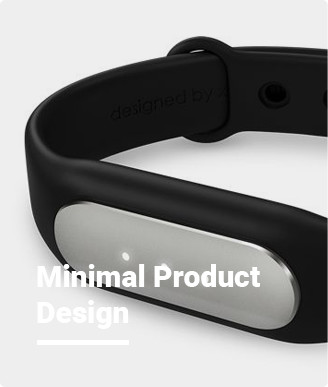
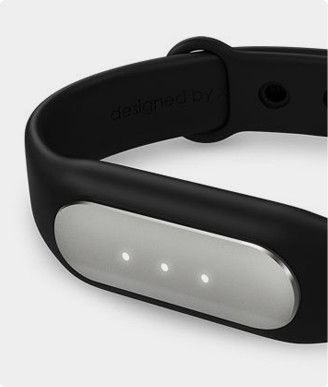
add hovers

Changed region(s): [[0.122, 0.6822, 0.7927, 0.7442], [0.3354, 0.7752, 0.3963, 0.8372]]

diff --git a/index.html b/index.html
@@ -19,8 +19,8 @@
 		<![endif]-->
 	</head>
 	<body>
-	<div class="ba-container cf">
 		<header class="ba-header">
+		<div class="ba-container cf">
 			<div class="ba-logo ba-float-left">
 				<h1>ProductMan</h1>
 			</div>
@@ -30,15 +30,15 @@
 					<li><a href="#fp">Featured Product</a></li>
 				</ul>
 			</nav>
-		</header>
-	</div>
+		</div>
+	</header>
 	<div class="ba-container cf">
 		<div class="ba-text ba-float-left">
 			<h3>Black&amp;White</h3>
 			<p>Lorem ipsum dolor sit amet, consectetur adipisicing
 				<br>elit sed do eiusmod tempor incididunt ut labore et
 				<br>dolore magna aliqua. Ut enim ad minim veniam</p>
-				<p>View Project</p>
+				<a href="#">View Project</a>
 			</div>
 			<div class="ba-img ba-float-right">
 				<img src="img/hp-slider.jpg" alt="slider">
@@ -52,7 +52,7 @@
 			</div>
 			<div class="ba-grid">
 				<div class="ba-width-2-3">
-					<img src="img/Rectangle.jpg" alt="Bluetooth Monster Beats Pill ">
+					<img src="img/Rectangle.jpg" alt="Bluetooth Monster Beats Pill">
 				</div>
 				<div class="ba-width-1-3">
 					<img src="img/Rectanglered.jpg" alt="Monster HeadphonesRed">
@@ -60,7 +60,7 @@
 			</div>
 			<div class="ba-grid">
 				<div class="ba-width-1-3">
-					<img src="img/Layer2.jpg" alt="Minimal Product Design">
+					<img src="img/Layer1.jpg" alt="Minimal Product Design">
 				</div>
 				<div class="ba-width-1-3">
 					<img src="img/Rectangle3.jpg" alt="Shoes">

diff --git a/css/style.css b/css/style.css
@@ -55,14 +55,13 @@ textarea {
 }
 
 /* Layout */
+.ba-header{
+	margin-bottom: 105px;
+}
 .ba-container{
 	max-width: 1230px;
 	padding-left: 16px;
 	padding-right: 16px;
-}
-.ba-header{
-	height: 84px;
-	margin-bottom: 105px;
 }
 .ba-logo h1{
 	margin: 30px 0 0 0;
@@ -100,16 +99,21 @@ textarea {
 	width:615px;
 	height: 491px;
 	margin-right: 104px;
+	text-align: right;
 }
 .ba-text p{
 	font-family: 'Roboto Light';
 	font-size: 24px;
-	text-align: right;
+
 }
-.ba-text p:nth-child(2n+1){
+.ba-text a{
 	color: #e10011;
 	font-size: 24px;
-	text-align: right;
+	text-decoration: none;
+	transition: all .0.5s ease;
+}
+.ba-text a:hover {
+	color: #303030;
 }
 .ba-img {
 	float: left;
@@ -123,7 +127,6 @@ textarea {
 	padding-top: 114px;
 	margin: 0;
 	font-size: 48px;
-	text-align: center;
 }
 .ba-fp img{
 	display: block;
@@ -132,13 +135,14 @@ textarea {
 }
 .ba-fp p{
 	margin: 0 auto;
+	padding-top: 5px;
 	max-width: 585px;
 	line-height: 1.3;
 	font-size: 18px;
-	text-align: center;
 }
 .ba-gallery {
 	background: #FFF;
+	text-align: center;
 }
 .ba-grid {
 	padding-left: 51px;
@@ -151,4 +155,12 @@ textarea {
 .ba-grid + .ba-grid {
     margin-top: 35px;
     padding-bottom: 72px ;
+}
+.ba-grid img {
+	background: #e10011;
+	transition: all .2s ease;
+}
+.ba-grid img:hover {
+	opacity: 0.3;
+	transition: all .2s ease;
 }
